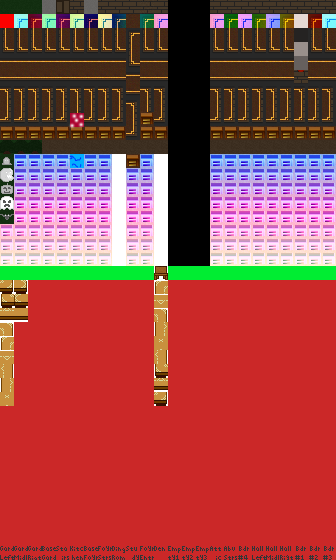
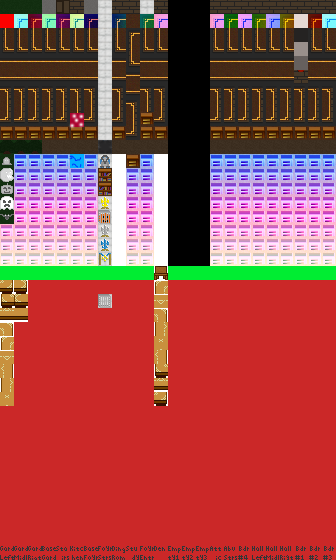
FoyerStairs room decorated with some cult-looking stuff and some red herring moveable empty cages

Changed region(s): [[0.2679, 0.0, 0.3571, 0.4857], [0.2679, 0.5161, 0.3571, 0.5768], [0.4167, 0.0, 0.4762, 0.0304]]

diff --git a/js/World.js b/js/World.js
@@ -64,19 +64,10 @@ var levelDen =
 		 10, 10, 10, 10, 10, 10, 10, 10, 10, 10, 10, 10, 10, 10, 10, 10,
 	];
 
-var levelFoyerStairs =
-	[ // Tables
-		 10, 10, 10, 0, 10, 10, 10, 10, 10, 10, 10, 10, 10, 10, 10, 10,
-		 10, 0, 0, 0, 0, 0, 0, 0, 0, 0, 0, 0, 0, 0, 0, 10,
-		 10, 0, 0, 0, 0, 0, 0, 0, 0, 0, 0, 0, 0, 0, 0, 10,
-		 10, 0, 0, 0, 0, 0, 0, 0, 0, 0, 0, 0, 0, 0, 0, 10,
-		 10, 0, 0, 0, 0, 0, 0, 0, 0, 0, 0, 0, 0, 0, 0, 10,
-		 0, 0, 0, 0, 0, 0, 0, 0, 0, 0, 0, 0, 0, 0, 0, 0,
-		 10, 0, 0, 0, 0, 0, 0, 0, 0, 0, 0, 0, 0, 0, 0, 10,
-		 10, 0, 0, 0, 0, 0, 0, 0, 0, 0, 0, 0, 0, 0, 0, 10,
-		 10, 0, 0, 0, 0, 0, 0, 0, 0, 0, 0, 0, 0, 0, 0, 10,
-		 10, 0, 0, 0, 0, 0, 0, 0, 0, 0, 0, 0, 0, 0, 0, 10,
-	];
+var levelFoyerStairs = 
+[
+10,10,10,0,10,10,10,10,10,10,10,10,10,10,10,10,10,10,17,0,17,10,10,10,10,10,10,10,11,10,10,10,10,11,0,0,0,0,13,12,13,12,13,0,0,0,10,10,10,10,0,0,0,0,0,0,0,0,0,0,0,0,10,10,10,16,0,0,0,0,12,12,12,13,13,0,0,0,14,10,0,0,0,0,0,0,0,0,0,0,0,0,0,0,0,0,10,16,0,0,21,0,0,0,0,0,15,0,0,0,14,10,10,10,0,0,0,0,0,18,0,0,0,0,0,0,10,10,10,10,0,0,0,0,0,21,0,15,18,21,0,0,10,10,10,0,0,0,0,0,0,0,0,0,0,0,0,0,0,10
+];
 
 var levelDiningRoom =
 	[ // Dining table, China cabinet
